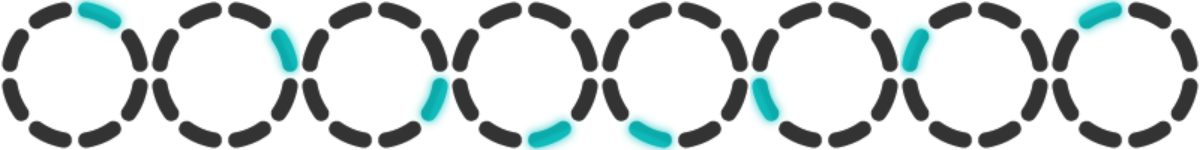
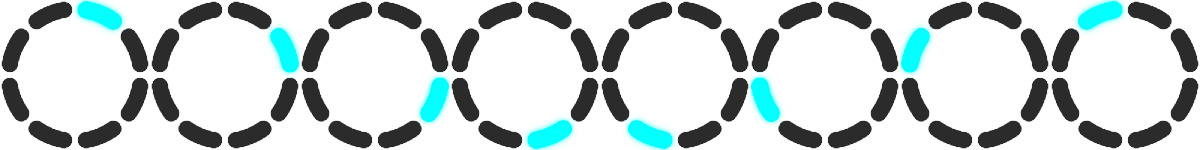
chore: concurrent resize #3

diff --git a/src/jive_surface.c b/src/jive_surface.c
@@ -2664,7 +2664,7 @@ typedef struct resize_request {
 	int   status;
 	int   seq;
 	int   op;
-	int   save_as_bmp;
+	int   save_as_png;
 	SDL_Surface* src_sdl;
 	SDL_Surface* dst_sdl;
 } resize_request, *resize_request_ptr;
@@ -2767,10 +2767,10 @@ fprintf(stderr, "%s %s %dx%d\n", req->src_path, req->dest_path, req->width, req-
 			}
 			if (req->dst_sdl != NULL) {
 				int saved;
-				if (req->save_as_bmp) {
-					saved = SDL_SaveBMP(req->dst_sdl, req->dest_path);
-				} else {
+				if (req->save_as_png) {
 					saved = save_png(req->dst_sdl, req->dest_path);
+				} else {
+					saved = SDL_SaveBMP(req->dst_sdl, req->dest_path);
 				}
 				if (saved == 0) {
 fprintf(stderr, "### saved %s\n", req->dest_path); fflush(stderr);
@@ -2832,7 +2832,7 @@ void start_concurrent_resizer(void) {
 	fflush(stderr);
 }
 
-int submit_resize_request(const char* src_path, const char* dest_path, int width, int height, int seq, int op, int save_as_bmp) {
+int submit_resize_request(const char* src_path, const char* dest_path, int width, int height, int seq, int op, int save_as_png) {
 	resize_request_ptr req = resize_perma;
 	while(req != NULL) {
 		if (req->width == width && req->height == height && strcmp(req->src_path, src_path)==0 && strcmp(req->dest_path, dest_path)==0) {
@@ -2851,7 +2851,7 @@ int submit_resize_request(const char* src_path, const char* dest_path, int width
 		req->height = height;
 		req->seq = seq;
 		req->op = op;
-		req->save_as_bmp = save_as_bmp;
+		req->save_as_png = save_as_png;
 		req->src_path = (char *)(req + 1);
 		strcpy(req->src_path, src_path);
 		req->dest_path = req->src_path + src_size;
